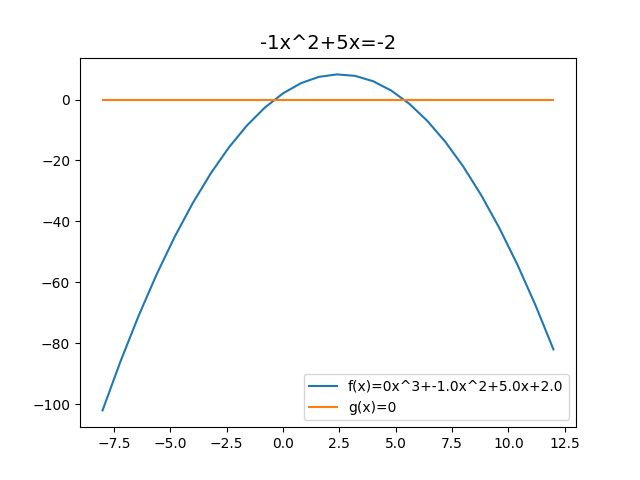
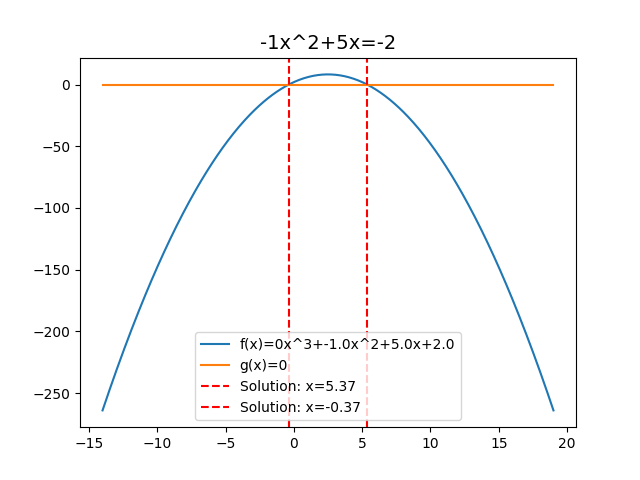
fix

diff --git a/main.py b/main.py
@@ -119,65 +119,64 @@ def solve_equation(input:str, show=False) -> None|tuple:
                 raise Exception("More than 2 degrees are not supported.")
 
     def f(image):
-        return x3*image**3+x2*image**2+x*image+c
-    
-    alpha = -(x/2*x2)
-    beta = -(x**2-4*x2*c)/2*x2
+        return x3 * image ** 3 + x2 * image ** 2 + x * image + c
 
-    x_ = np.linspace(int(round(alpha-10, 0)), int(round(alpha+10, 0)), int(round(beta+10, 0)) if beta > 0 else beta-10)
+    alpha = -(x / (2 * x2)) if x2 != 0 else 0
+    beta = abs((x ** 2 - 4 * x2 * c) / (2 * x2)) if x2 != 0 else 10
+
+    x_ = np.linspace(int(round(alpha - beta, 0)), int(round(alpha + beta, 0)), 500)
     y = f(x_)
 
     def g(img):
         return 0 * img
-    
+
     y2 = g(x_)
-    
-    ig, ax = plt.subplots()
+
+    fig, ax = plt.subplots()
     ax.plot(x_, y, label=f"f(x)={x3}x^3+{x2}x^2+{x}x+{c}")
-    ax.plot(x_, y2, label=f"g(x)=0")
-    ax.set_title(input, size=14)
-    plt.legend()
-    plt.savefig("graph.png")
+    ax.plot(x_, y2, label="g(x)=0")
+
+    solutions = []
 
     if x3 != 0:
-        p = (x2**2 - 3*x3*c) / (3*x3**2)
-        q = (2*x2**3 - 9*x3*x2*c + 27*x3**2*c) / (27*x3**3)
+        p = (x2 ** 2 - 3 * x3 * c) / (3 * x3 ** 2)
+        q = (2 * x2 ** 3 - 9 * x3 * x2 * c + 27 * x3 ** 2 * c) / (27 * x3 ** 3)
 
         d = (q / 2) ** 2 + (p / 3) ** 3
 
         if d > 0:
-            return math.pow(-(q/2)+math.sqrt(d), 3) + math.pow(-(q/2)-math.sqrt(d), 3)
+            sol = math.pow(-(q / 2) + math.sqrt(d), 1 / 3) + math.pow(-(q / 2) - math.sqrt(d), 1 / 3)
+            solutions = [sol]
         elif d == 0:
-            s1 = 2*math.pow(-(q/2), 3)
-            s2 = -math.pow(-(q/2), 3)
-
-            if s1 < s2:
-                return (s1, s2)
-            else:
-                return (s2, s1)
+            s1 = 2 * math.pow(-(q / 2), 1 / 3)
+            s2 = -math.pow(-(q / 2), 1 / 3)
+            solutions = [s1, s2]
         else:
-            theta = math.acos(-q / (2 * math.sqrt((-p / 3)**3)))
+            theta = math.acos(-q / (2 * math.sqrt((-p / 3) ** 3)))
             s1 = 2 * math.sqrt(-p / 3) * math.cos(theta / 3)
             s2 = 2 * math.sqrt(-p / 3) * math.cos((theta + 2 * math.pi) / 3)
             s3 = 2 * math.sqrt(-p / 3) * math.cos((theta + 4 * math.pi) / 3)
-
-            return (s1, s2, s3)
+            solutions = [s1, s2, s3]
 
     elif x2 != 0:
-        d = x ** 2 - 4*x2*c
-        if d < 0:
-            return None
-        elif d > 0:
-            s1 = (-x - math.sqrt(d)) /2 * x2
-            s2 = (-x + math.sqrt(d)) /2 * x2
-            if s1 > s2:
-                return (s2, s1)
-            else:
-                return (s1, s2)
-        else:
-            return ((-x - math.sqrt(d)), )
+        d = x ** 2 - 4 * x2 * c
+        if d > 0:
+            s1 = (-x - math.sqrt(d)) / (2 * x2)
+            s2 = (-x + math.sqrt(d)) / (2 * x2)
+            solutions = [s1, s2]
+        elif d == 0:
+            solutions = [-x / (2 * x2)]
     else:
-        assert x != 0
-        return (-c/x, )
+        solutions = [-c / x] if x != 0 else []
+
+    for sol in solutions:
+        ax.axvline(sol, color='r', linestyle='--', label=f"Solution: x={sol:.2f}")
+
+    ax.set_title(input, size=14)
+    plt.legend()
+    if show:
+        plt.savefig("graph.png")
+
+    return tuple(solutions) if solutions else None
         
 solve_equation("-1x^2+5x=-2", True)
